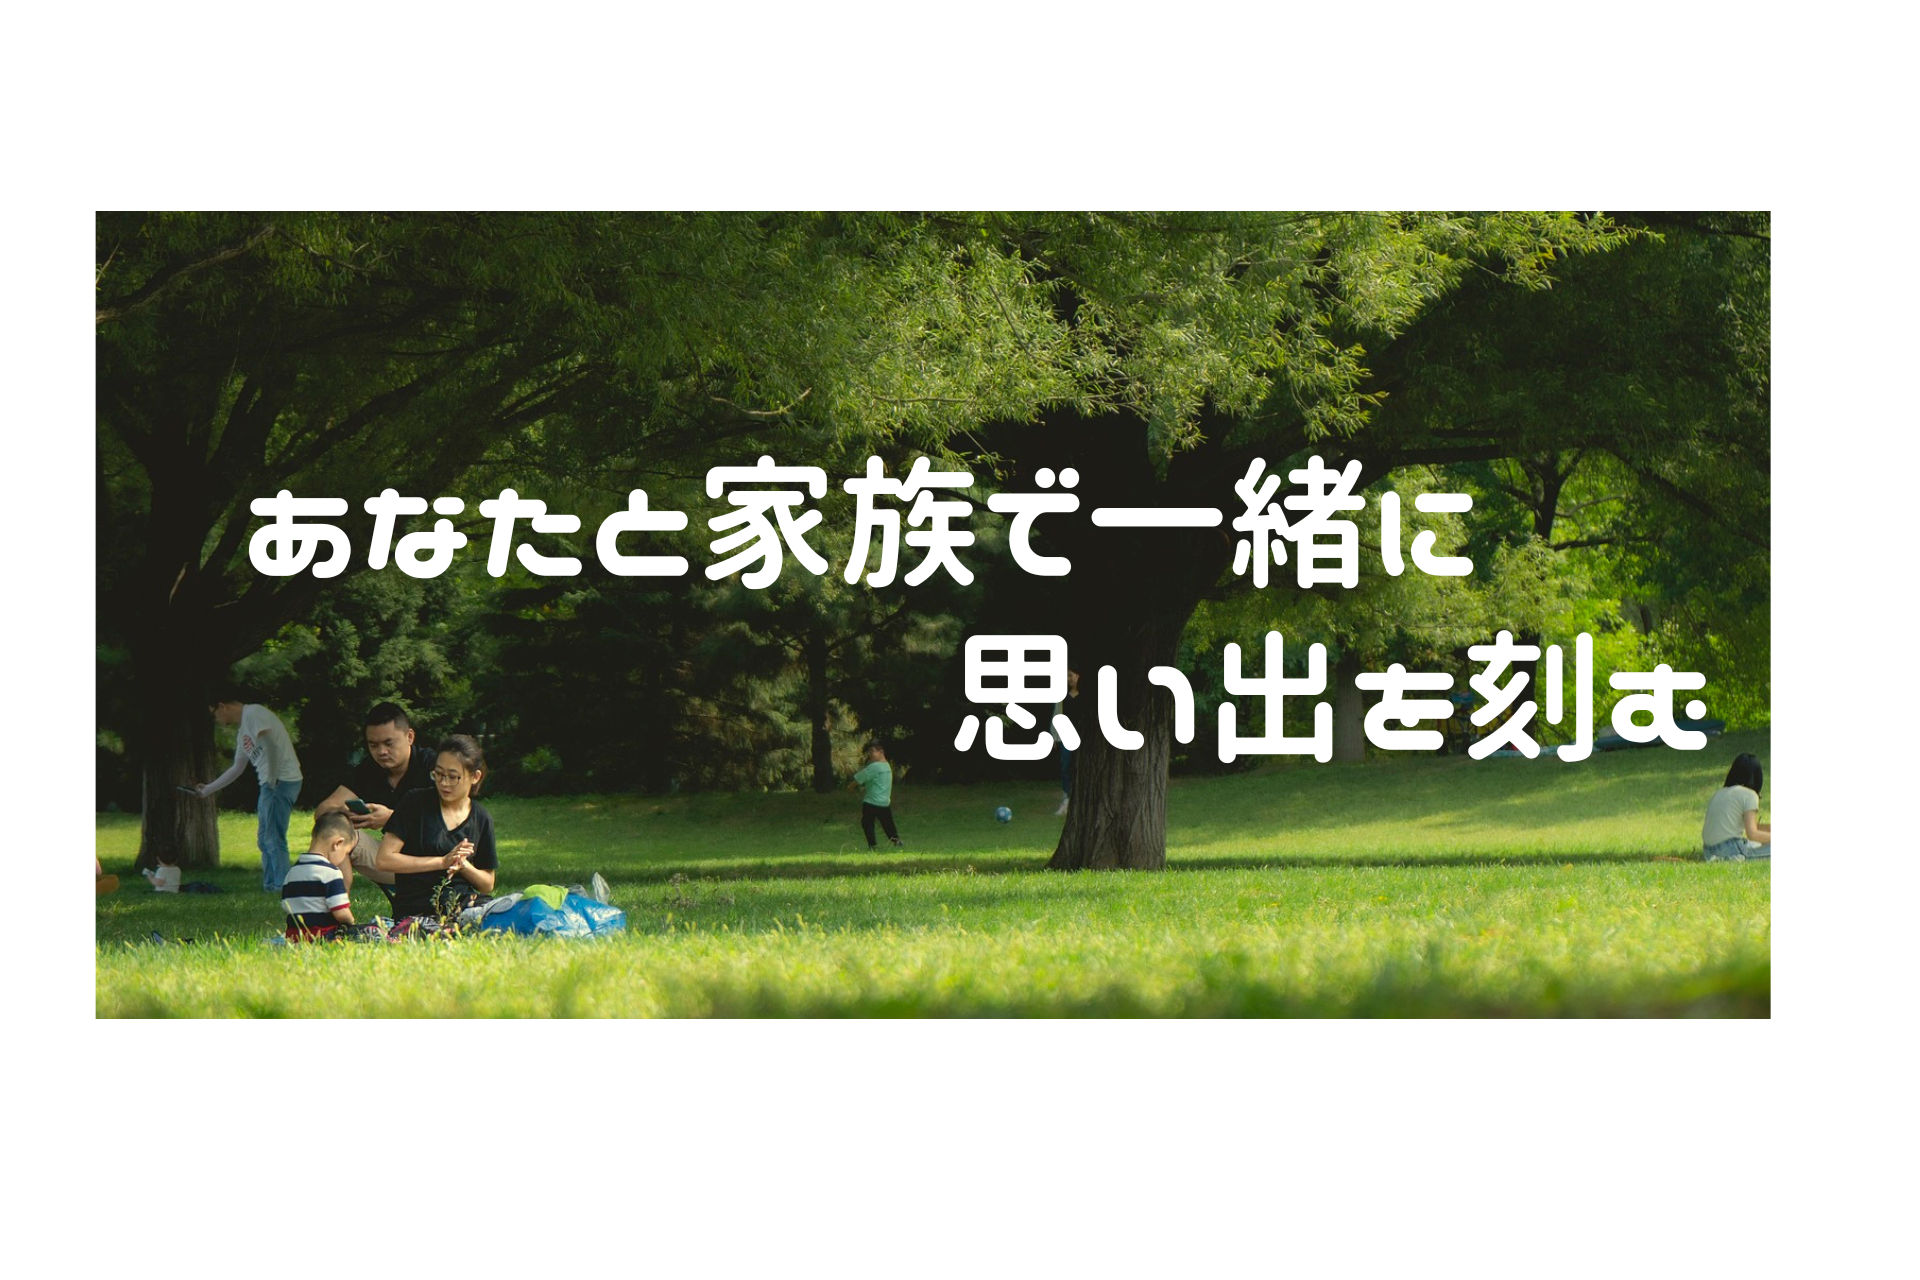
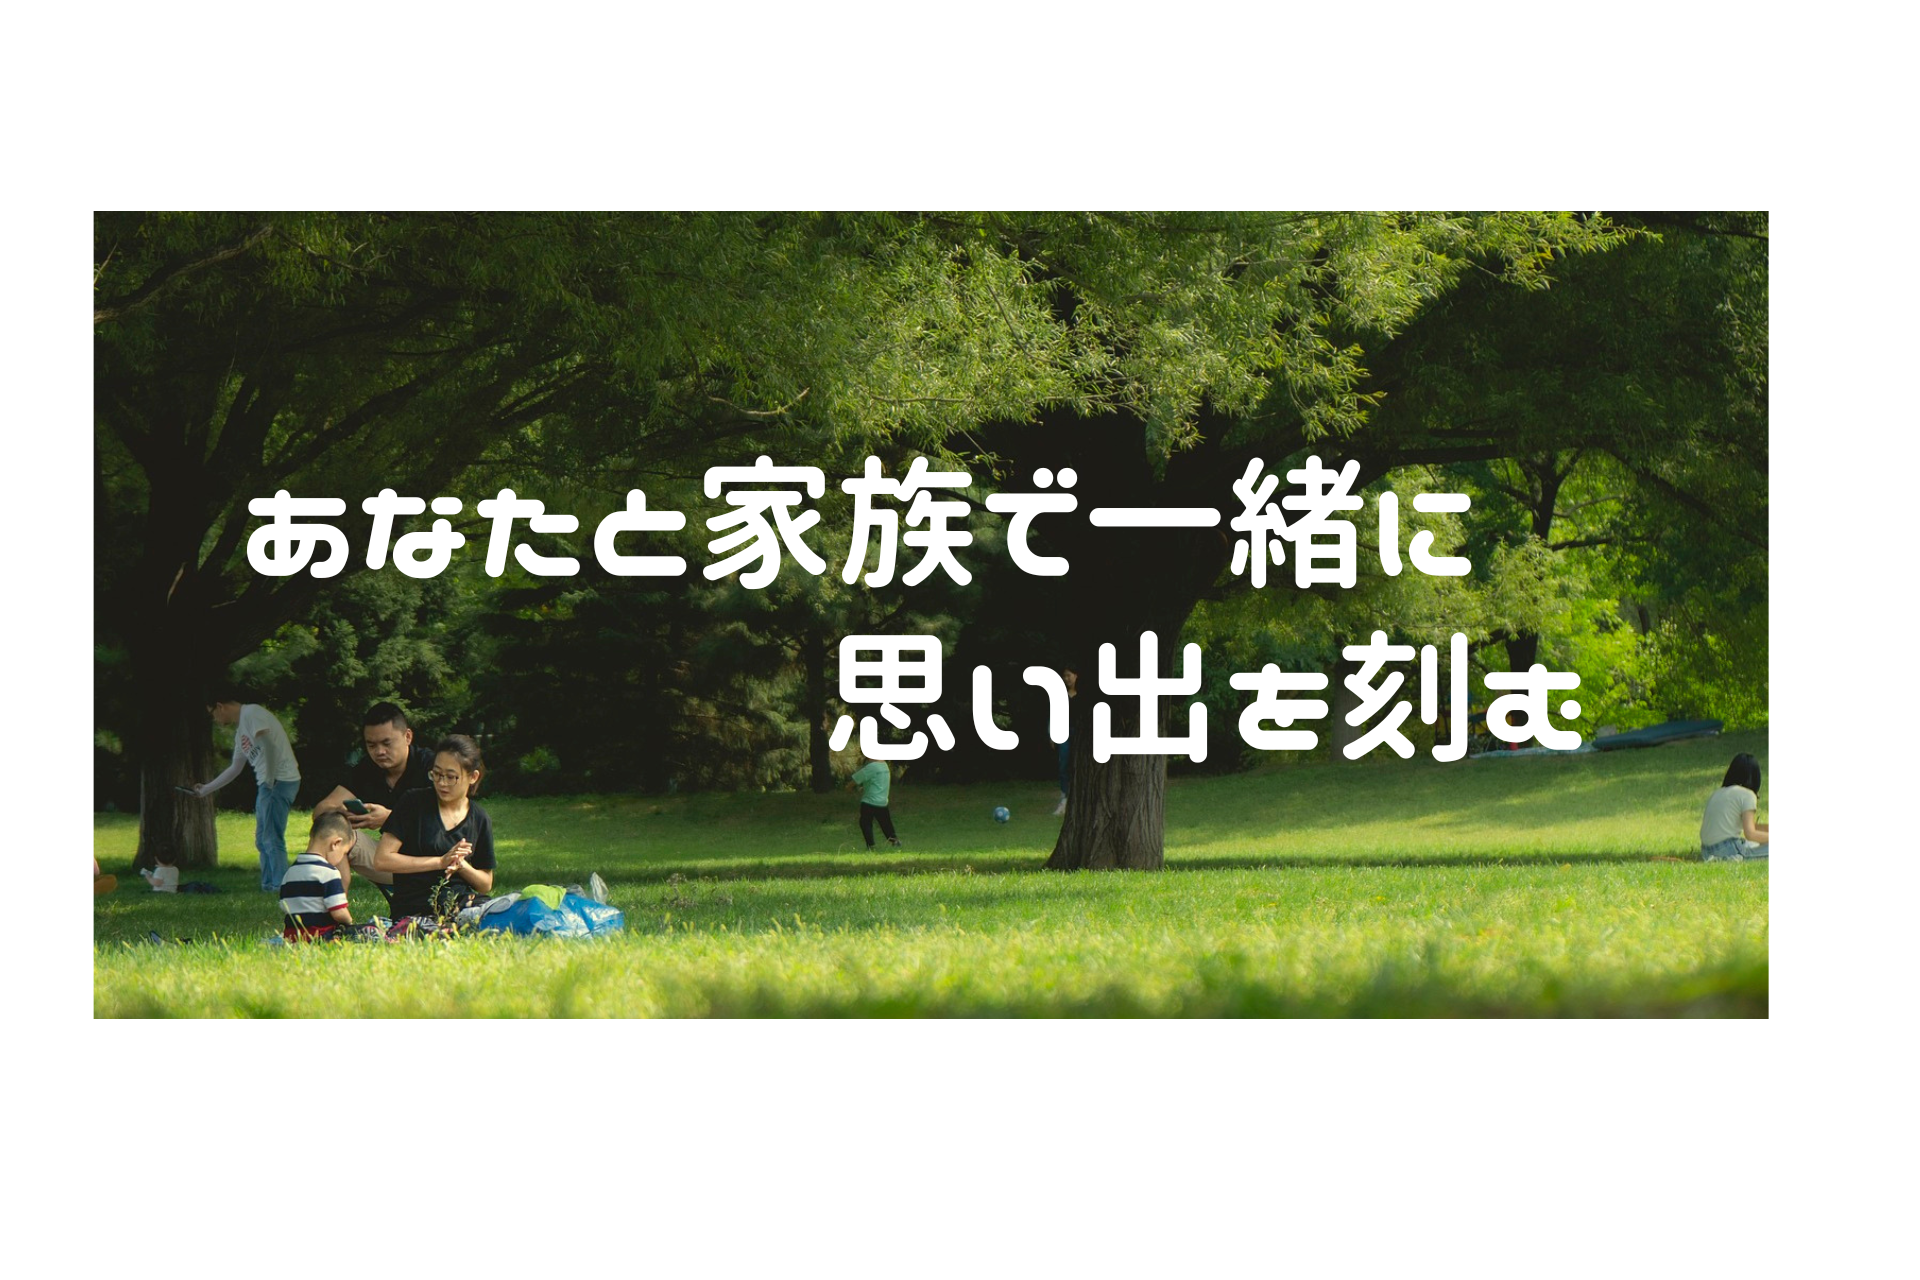
calendar/index.html.erbのサイズ調整

diff --git a/app/assets/stylesheets/calendars/index.css b/app/assets/stylesheets/calendars/index.css
@@ -1,7 +1,6 @@
 .index-top-content{
   display: flex;
   justify-content: center;
-  align-items: center;
 }
 
 .schedule-icon{
@@ -9,10 +8,23 @@ text-decoration: none;
 color: black;
 }
 
+.calendar-top{
+  height: 60vh;
+  width: 110%;
+  padding-bottom: 50px;
+  border-radius: 5px;
+  display: flex;
+  align-items: center;
+  justify-content: center;
+  background-image: url(picnic.png);
+  background-position: center;
+  background-repeat: no-repeat;
+  background-color: wheat;
+}
+
 .kid-image{
-width: 120vw;
+width: 119vw;
 height: 60vh;
-line-height: 0;
 object-fit: cover;
 }
 

diff --git a/app/assets/stylesheets/shared/header.css b/app/assets/stylesheets/shared/header.css
@@ -32,6 +32,7 @@
   flex-wrap: wrap;
   width: 100%;
   padding: 1vh 0;
+  font-family: 'Courier New', Courier, monospace;
 }
 
 .lists-left {
@@ -46,11 +47,10 @@
   margin-right: 5px;
 }
 
-.pagelist{
+.page-list{
   text-decoration: none;
   margin-right: 3vw;
   color: rgb(237, 127, 222);
-  font-family: fantasy;
 }
 
 .lists-right {
